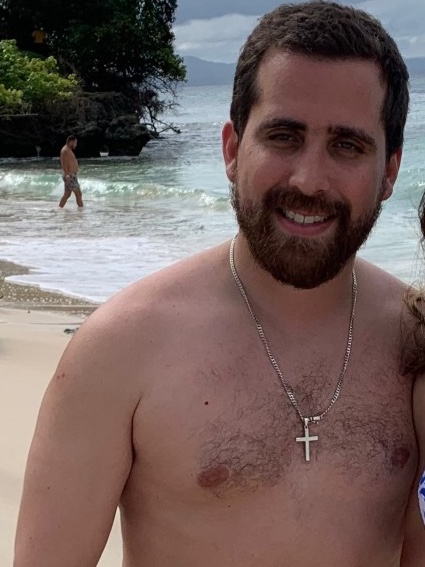
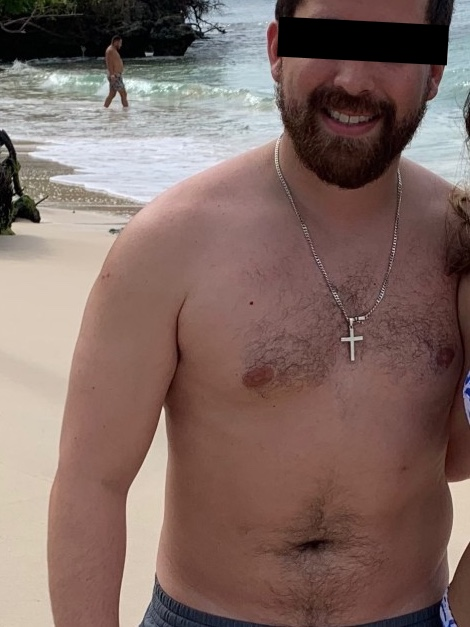
Landing: fotos de Juan Manuel M enfocadas en el cuerpo, con barra en los ojos

diff --git a/public/vsl/landing-escritorio.html b/public/vsl/landing-escritorio.html
@@ -554,8 +554,8 @@
           <div class="ecc-testi-slide" role="group" aria-roledescription="testimonio" aria-label="3 de 6">
             <div class="ecc-bezel"><div class="ecc-bezel-core ecc-testi-card">
               <div class="ecc-ad-par ecc-testi-fotos">
-                <div class="ecc-ad-foto"><img src="assets/testimonios/testimonio-6-antes.jpg?v=3" alt="Juan Manuel M, antes" loading="lazy" style="object-position:50% 50%"><span>Antes</span></div>
-                <div class="ecc-ad-foto"><img src="assets/testimonios/testimonio-6-despues.jpg" alt="Juan Manuel M, después" loading="lazy" style="object-position:50% 40%"><span>Después</span></div>
+                <div class="ecc-ad-foto"><img src="assets/testimonios/testimonio-6-antes.jpg?v=6" alt="Juan Manuel M, antes" loading="lazy" style="object-position:50% 50%"><span>Antes</span></div>
+                <div class="ecc-ad-foto"><img src="assets/testimonios/testimonio-6-despues.jpg?v=5" alt="Juan Manuel M, después" loading="lazy" style="object-position:50% 40%"><span>Después</span></div>
               </div>
               <div class="ecc-testi-texto">
                 <i class="ph-fill ph-quotes" aria-hidden="true"></i>

diff --git a/public/vsl/landing-movil.html b/public/vsl/landing-movil.html
@@ -576,8 +576,8 @@
           <div class="ecc-testi-slide" role="group" aria-roledescription="testimonio" aria-label="3 de 6">
             <div class="ecc-bezel"><div class="ecc-bezel-core ecc-testi-card">
               <div class="ecc-ad-par ecc-testi-fotos">
-                <div class="ecc-ad-foto"><img src="assets/testimonios/testimonio-6-antes.jpg?v=3" alt="Juan Manuel M, antes" loading="lazy" style="object-position:50% 50%"><span>Antes</span></div>
-                <div class="ecc-ad-foto"><img src="assets/testimonios/testimonio-6-despues.jpg" alt="Juan Manuel M, después" loading="lazy" style="object-position:50% 40%"><span>Después</span></div>
+                <div class="ecc-ad-foto"><img src="assets/testimonios/testimonio-6-antes.jpg?v=6" alt="Juan Manuel M, antes" loading="lazy" style="object-position:50% 50%"><span>Antes</span></div>
+                <div class="ecc-ad-foto"><img src="assets/testimonios/testimonio-6-despues.jpg?v=5" alt="Juan Manuel M, después" loading="lazy" style="object-position:50% 40%"><span>Después</span></div>
               </div>
               <div class="ecc-testi-texto">
                 <i class="ph-fill ph-quotes" aria-hidden="true"></i>
